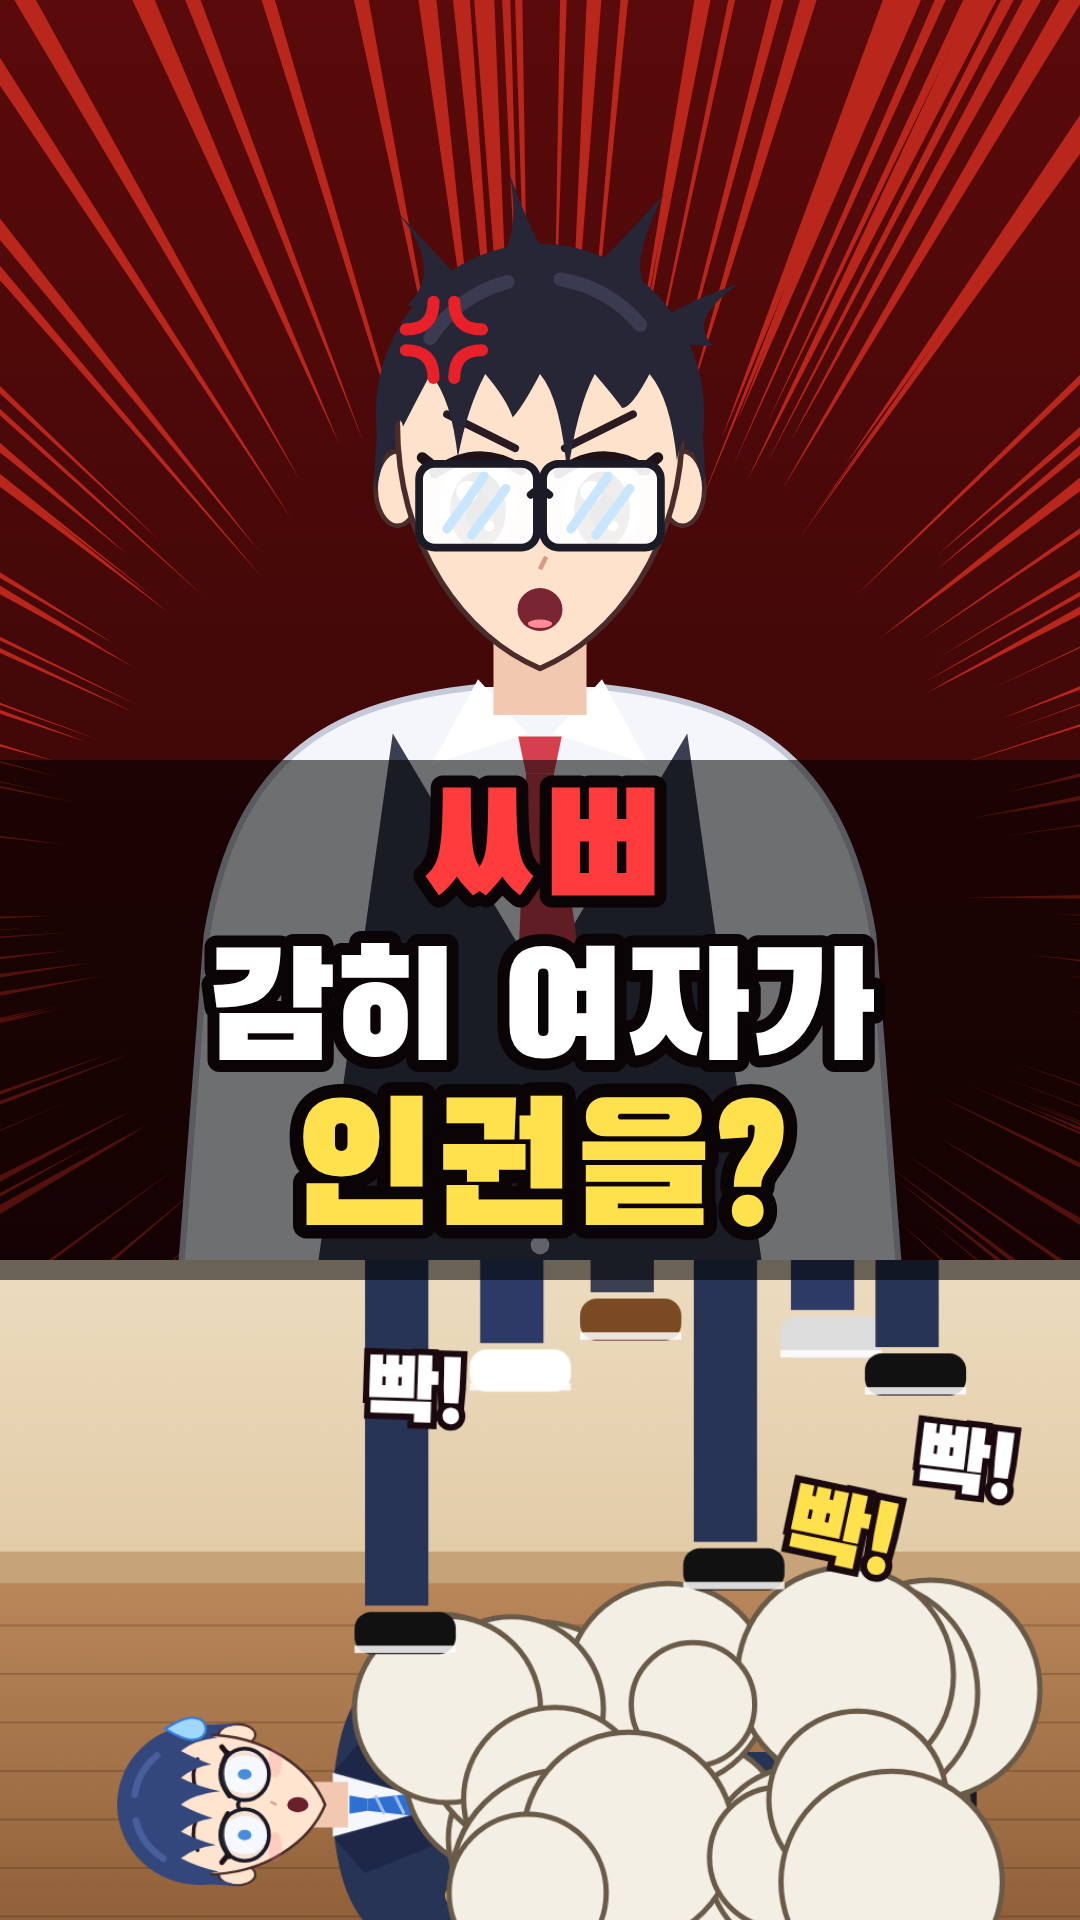
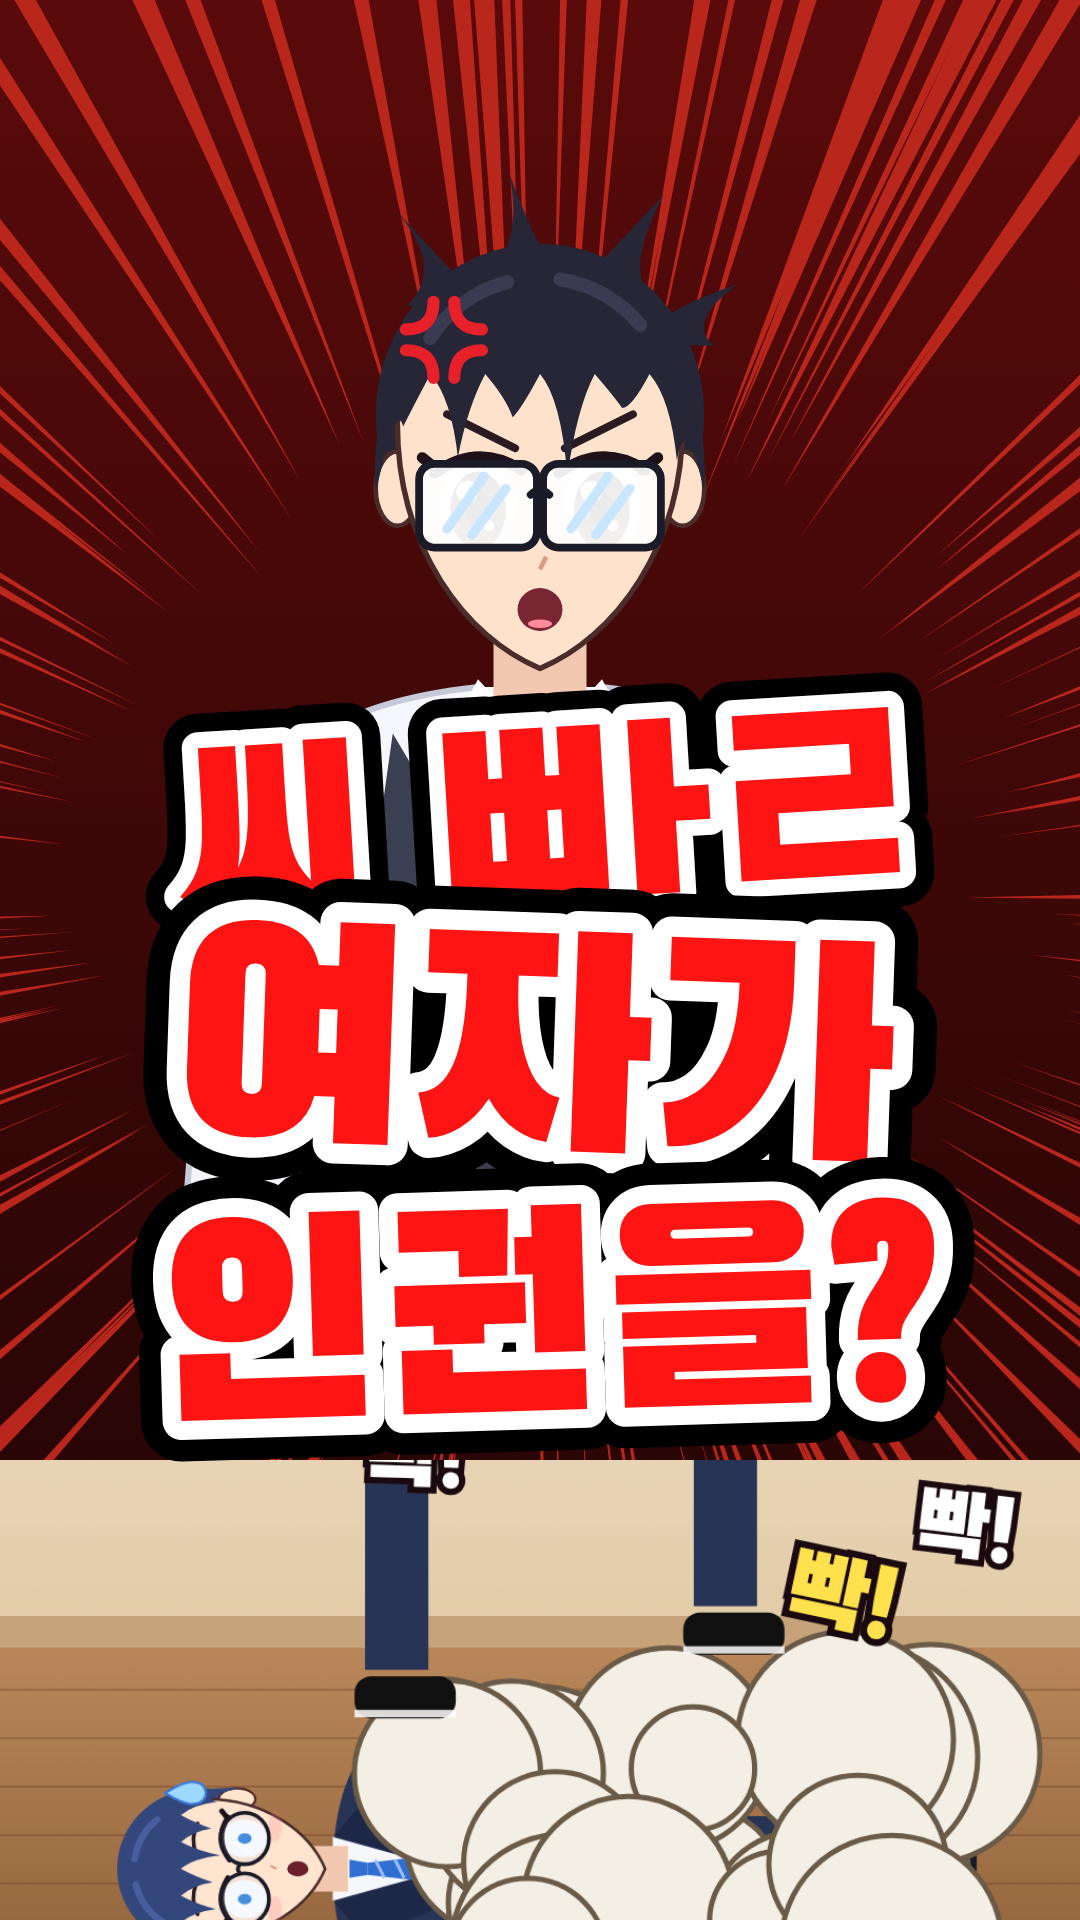
Restyle EP4 thumbnail: big crude red text
Claude-Session: https://claude.ai/code/session_013ezZS9Z7RZTm4P6iy54kvu

diff --git a/anime/index.html b/anime/index.html
@@ -1053,15 +1053,19 @@ function renderThumb() {
   // the stomp pile at the bottom, drawn from the 16:9 scene
   const off = Object.assign(document.createElement('canvas'), { width: W, height: H }).getContext('2d');
   shotStomp(off, 20.37);
-  c.save(); c.beginPath(); c.rect(0, 1260, VW, VH - 1260); c.clip();
-  c.drawImage(off.canvas, 120, 60, 1100, 660, -40, 1250, 1160, 696); c.restore();
-  // center text
-  c.fillStyle = 'rgba(0,0,0,.55)'; c.fillRect(0, 760, VW, 520);
+  c.save(); c.beginPath(); c.rect(0, 1460, VW, VH - 1460); c.clip();
+  c.drawImage(off.canvas, 120, 160, 1100, 560, -40, 1420, 1160, 590); c.restore();
+  // crude, slapped-on red text
   c.textAlign = 'center'; c.lineJoin = 'round';
-  const line = (txt, y, size, fill) => { c.font = `${size}px BHS`; c.lineWidth = size * 0.16; c.strokeStyle = '#0a0406'; c.strokeText(txt, 540, y); c.fillStyle = fill; c.fillText(txt, 540, y); };
-  line('ㅆㅃ', 900, 150, '#ff3b3b');
-  line('감히 여자가', 1060, 150, '#ffffff');
-  line('인권을?', 1225, 170, '#ffe14d');
+  const slap = (txt, x, y, size, rot) => {
+    c.save(); c.translate(x, y); c.rotate(rot); c.font = `${size}px BHS`;
+    c.lineWidth = size * 0.3; c.strokeStyle = '#000'; c.strokeText(txt, 0, 0);
+    c.lineWidth = size * 0.14; c.strokeStyle = '#fff'; c.strokeText(txt, 0, 0);
+    c.fillStyle = '#ff1414'; c.fillText(txt, 0, 0); c.restore();
+  };
+  slap('씨 ㅃㅏㄹ', 548, 900, 230, -0.06);
+  slap('여자가', 528, 1150, 290, 0.035);
+  slap('인권을?', 552, 1410, 270, -0.03);
   c.restore();
 }
 window.renderFrame = renderFrame;
